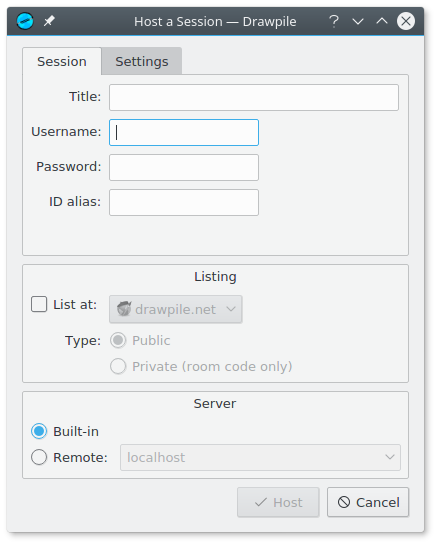
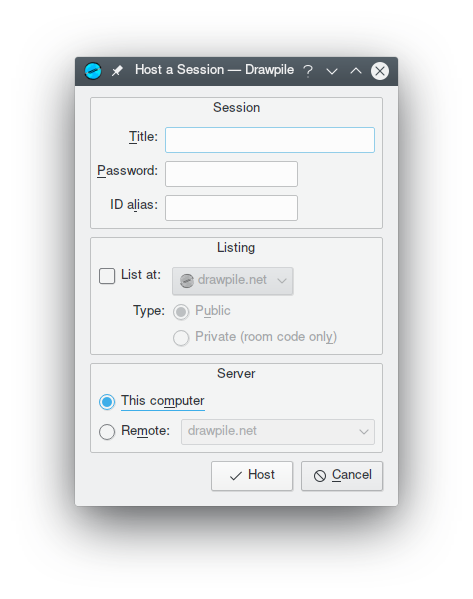
Update hosting&joining help pages

Changed region(s): [[0.0, 0.0, 0.9817, 0.9982]]

diff --git a/templates/pages/help/hosting.html b/templates/pages/help/hosting.html
@@ -17,48 +17,36 @@ You will see this dialog pop up:
 
 <p class="has-text-centered">{% include "components/image.html" with name="hostdialog-guide.png" alt="[host dialog screenshot]" %}</p>
 
-Fill in a **title**, your **username**, and optionally a **password** for the session.
+Fill in a **title** and optionally a **password** for the session. (These can be changed at any time later.)
 If you're hosting a long running or recurring session and want a nicer URL, you can add
 a custom ID alias. Typically you should leave this empty, though.
 
 If you're hosting a session that's open to the public, you can check the **List at** checkbox
-to announce the session at a list server. Listing a session also gives you a "room code": a five
+to announce the session at a list server. Listing a session also gives you a *room code*: a five
 letter code that works like a short URL. If you're hosting a private session but still want to
 make use of the room code feature, select the **Private** listing type. This way, the session
 is not shown in the public list, but you still get the room code.
 
-Next, you must decide where to host the session. If you select the **built-in** option, the server
+Next, you must decide where to host the session. If you select the **this computer** option, the server
 will run on your computer and other users must connect to it directly. (It also means that when you
-quit Drawpile, the session ends.) This is best for sessions with just a few users at most.
+quit Drawpile, the session ends.) This is best for sessions with just a few users at most,
+and when every participant is on the same local network.
 Using the built-in server means you may need to configure your firewall to allow incoming
 connections. See more below.
 
-Another option is to host on an external server. A [public server](/servers/) is hosted here
+Another option is to host on an external server. A [public server](http://pub.drawpile.net/) is hosted here
 on drawpile.net you can use: just enter `drawpile.net` in the **remote** option box. See also
 the [dedicated server](/help/server/) page on how to set up your own dedicated server.
 
 Click ***Host*** to start the session.
 
 Now, you just need to invite friends to join! If you announced the session this is easy: your
-session will appear in the *find* list in the join dialog. Also, take a look at the bottom
-right corner of the status bar. You should see something like: *Room code: ABCDE* there.
+session will appear in the list in the join dialog. Also, take a look at the bottom
+right corner of the status bar. You should see something like <samp>Room code: ABCDE</samp> there.
 This session can also be joined by entering this code in the join address box.
 
 Tip: Right click on the status bar address label for more options.
 
-### Additional settings
-
-<p class="has-text-centered">{% include "components/image.html" with name="hostdialog-settings.png" alt="[host dialog screenshot]" %}</p>
-
-The *Settings* tab contains various session settings that you usually don't need to change every time you host a session. All of these settings can be changed afterwards.
-
-When *Allow drawing by default* is not checked, users who log in to the session will be automatically locked. This is useful when hosting a livestream style session where most or all participants are just spectating.
-
-If *lock layer controls* is checked, only session operators are allowed to modify the layer stack (create, delete,reorder or rename layers.)
-
-Dedicated servers may support *persistent sessions*. Normally, the session is removed from the server as soon as the last user leaves it, but a persistent session will remain open for new users to join even after it has become vacant.
-
-Checking *preserve chat* makes chat messages part of the session history. This means users joining later will be able to see what was said before they logged in. See the [Chat](/help/chat/) page for details.
 
 ## Dealing with firewalls
 

diff --git a/templates/pages/help/joining.html b/templates/pages/help/joining.html
@@ -14,26 +14,16 @@
 
 To join a session, select the **Join** action from the *Session* menu.
 
-Enter the address given by the hosting user and your username, then click Join.
-You can also enter a five letter room code (like `ABCDE`). If the code is valid,
-it is automatically replaced by the full address.
+You will see a list of sessions announced at a listing server (drawpile.net) or a list of servers running
+on the local network (Nearby.)
 
-If the server is running on a port other than the default (27750),
-the port number should be included in the address.
+Click on the lock button to show password protected sessions. The second button shows sessions that
+have been tagged as NSFW.
 
-Note: When connecting to an IPv6 address, the address must be enclosed in square brackets (e.g. `[fe80::0202:1234:4567:89ab]`)
+You can enter a whole session URL, a server address or a room code to join.
 
-Checking the *record session* box will automatically start recording. The recording will be placed in the *My documents* (or equivalent) folder.
-
-<p class="has-text-centered">{% include "components/image.html" with name="find-sessions.png" alt="[session discovery dialog screenshot]" %}</p>
-
-Press *Find* to browse public sessions listed via the *announce* feature.
-
-When Zeroconf/Bonjour support is enabled, the listing server list contains the special entry "Nearby" which
-lists all running servers discovered in the local network.
-
-By default, the *drawpile.net* list server is included.
-You can also add more lists in the Preferences dialog.
+Clicking on the record button next to the address box will allow you to capture the sessions history from the very
+beginning.
 
 It may take some time to get up to speed with the session.
 If you start drawing and your strokes disappear, it is probably because you haven't caught up yet.
